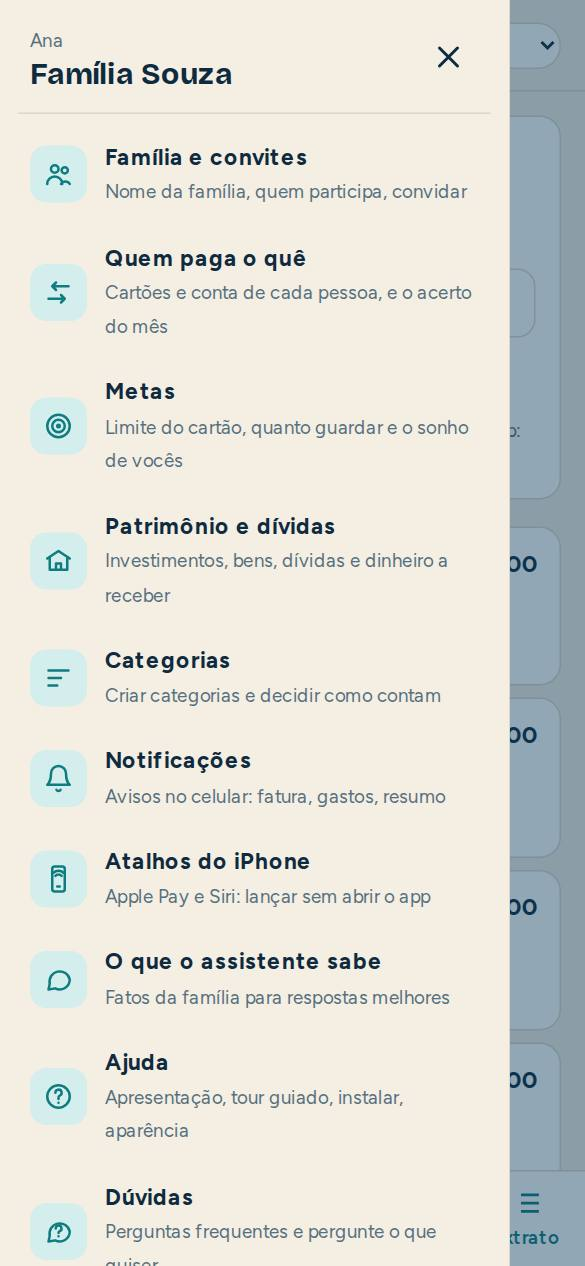
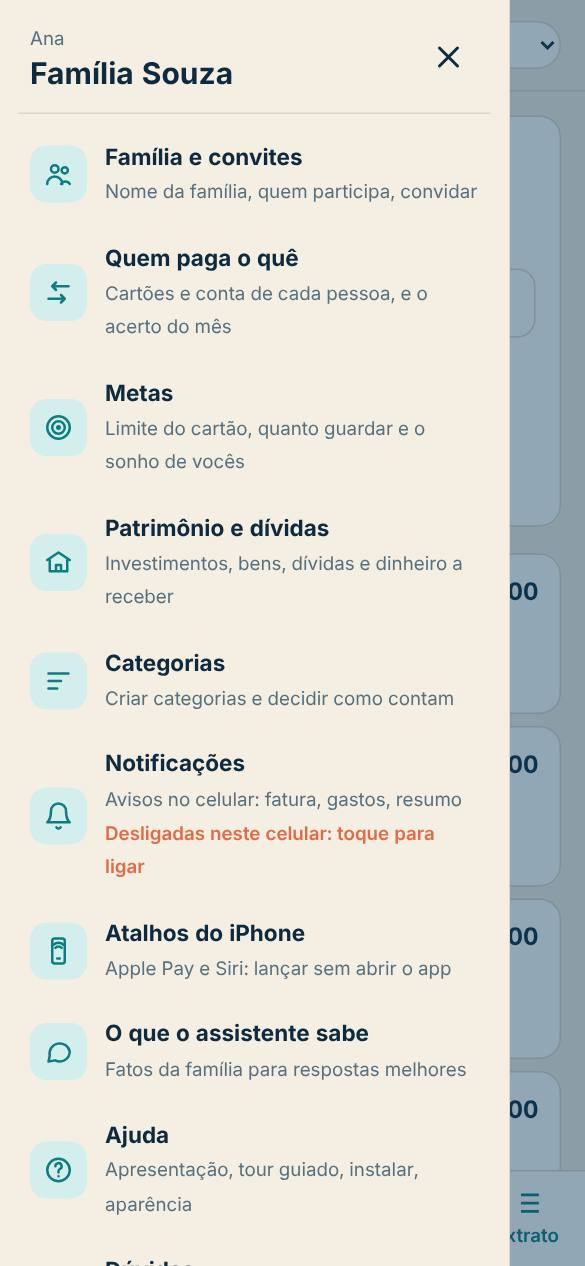
v61: tell people when notifications are off and take them to turn them on
Claude-Session: https://claude.ai/code/session_01HTxyDPPEQrF1SknoQ9axHM

diff --git a/public/js/admin/content.js b/public/js/admin/content.js
@@ -9,7 +9,7 @@ export const FEATURE_LABELS = {
   'perguntar.enviar': 'Pergunta ao assistente', 'fechar.mes': 'Fechou um mês', 'graficos.salvar': 'Salvou gráfico', privacidade: 'Modo privacidade',
   'opiniao.erro': 'Mandou erro', 'opiniao.ideia': 'Mandou ideia', 'opiniao.critica': 'Mandou crítica', 'duvida.ler': 'Leu uma dúvida', 'duvida.perguntar': 'Perguntou nas Dúvidas',
   'menu.familia': 'Menu: Família', 'menu.divisao': 'Menu: Quem paga o quê', 'menu.metas': 'Menu: Metas', 'menu.patrimonio': 'Menu: Patrimônio', 'menu.categorias': 'Menu: Categorias',
-  'menu.avisos': 'Menu: Notificações', 'menu.contexto': 'Menu: O que o assistente sabe', 'menu.ajuda': 'Menu: Ajuda', 'menu.duvidas': 'Menu: Dúvidas', 'menu.opiniao': 'Menu: Dar opinião',
+  'menu.avisos': 'Menu: Notificações', 'avisos.convite_sim': 'Aceitou ligar as notificações (pop-up)', 'avisos.convite_nao': 'Disse "agora não" às notificações (pop-up)', 'avisos.ligou': 'Ligou as notificações neste celular', 'menu.contexto': 'Menu: O que o assistente sabe', 'menu.ajuda': 'Menu: Ajuda', 'menu.duvidas': 'Menu: Dúvidas', 'menu.opiniao': 'Menu: Dar opinião',
   'menu.applepay': 'Menu: Atalhos do iPhone', 'conta.zerar': 'Zerou os lançamentos da família', 'extrato.anotacao': 'Anotou um lançamento', 'exemplo.fatura': 'Do mês de exemplo, foi enviar a fatura', 'exemplo.falar': 'Do mês de exemplo, foi lançar falando', 'seguranca.biometria': 'Ligou a digital ou o rosto', 'seguranca.desbloqueio_bio': 'Desbloqueou com a digital ou o rosto', 'seguranca.desbloqueio_senha': 'Desbloqueou com a senha', 'seguranca.tempo': 'Mudou o tempo do bloqueio', 'seguranca.bloquear': 'Bloqueou o app na mão', 'applepay.codigo': 'Gerou código do atalho do iPhone', 'lancar.comprovante': 'Leu comprovante compartilhado', 'atalho.voz': 'Abriu pelo atalho Falar', 'atalho.nota': 'Abriu pelo atalho Nota', 'atalho.pdf': 'Abriu pelo atalho PDF', 'atalho.compartilhar': 'Compartilhou algo com o app', sininho: 'Abriu o sininho', 'menu.backup': 'Menu: Backup', 'menu.sobre': 'Menu: Sobre', 'menu.metricas': 'Menu: Métricas', 'menu.conta': 'Menu: Conta',
 };
 export const AREA_LABELS = { extrato: 'Extrato', conta: 'Conta', exemplo: 'Mês de exemplo', seguranca: 'Segurança', atalho: 'Atalhos', applepay: 'Atalhos do iPhone', aba: 'Abas', lancar: 'Lançar', perguntar: 'Perguntar', fechar: 'Fechar o mês', graficos: 'Gráficos', privacidade: 'Privacidade', opiniao: 'Opinião', duvida: 'Dúvidas', menu: 'Menu' };
@@ -31,7 +31,8 @@ export const SERVICES = [
   sv('subs', 'Assinaturas e aumentos', 'Acha cobranças repetidas e avisa quando o preço sobe', 'Início → Mais detalhes', 'no_ar', 'gratis', 'nao', '—', []),
   sv('split', 'Quem paga o quê', 'Quanto cada um pagou e o acerto do mês', 'Menu → Quem paga o quê', 'no_ar', 'gratis', 'nao', '—', ['menu.divisao']),
   sv('fam', 'Família e convites', 'Convite pelo WhatsApp; todos veem os mesmos números', 'Menu → Família', 'no_ar', 'gratis', 'nao', 'Supabase Auth', ['menu.familia']),
-  sv('push', 'Notificações', 'Um aviso por dia no máximo e resumo de domingo; avisos da família', 'Menu → Notificações', 'no_ar', 'gratis', 'nao', 'Web Push; Vercel Cron', ['menu.avisos']),
+  sv('push', 'Notificações', 'Um aviso por dia no máximo e resumo de domingo; avisos da família', 'Menu → Notificações', 'no_ar', 'gratis', 'nao', 'Web Push; Vercel Cron', ['menu.avisos', 'avisos.ligou']),
+  sv('push_convite', 'Convite para ligar as notificações', 'Se as notificações estão desligadas ou bloqueadas no celular, o app avisa (a cada 3 dias, até 4 vezes) e leva para Notificações; o menu mostra "Desligadas"', 'Pop-up ao abrir o app; menu ☰', 'no_ar', 'gratis', 'nao', 'Estado do Web Push no próprio aparelho', ['avisos.convite_sim', 'avisos.convite_nao']),
   sv('priv', 'Modo privacidade', 'Esconde todos os valores', 'Olho no topo', 'no_ar', 'gratis', 'nao', '—', ['privacidade']),
   sv('pat', 'Patrimônio e dívidas', 'Investimentos, bens, financiamentos e projeção do sonho', 'Menu → Patrimônio', 'no_ar', 'gratis', 'nao', '—', ['menu.patrimonio']),
   sv('backup', 'Backup', 'Baixar e importar todos os dados', 'Menu → Backup', 'no_ar', 'gratis', 'nao', '—', ['menu.backup']),

diff --git a/public/js/views/ajustes.js b/public/js/views/ajustes.js
@@ -427,6 +427,8 @@ async function save(patch, msg) {
 const lsSet = (k, v) => { try { localStorage.setItem(k, v); } catch (e) { /* storage blocked */ } };
 async function renderPush(box) {
   const st = await pushStatus().catch(() => 'unsupported');
+  S.pushStatus = st;
+  const focus = S.pushFocus; S.pushFocus = false;
   const msg = {
     'need-install': `<p class="small">No iPhone, os avisos só funcionam com o app instalado na tela de início. Instale e abra pelo ícone; depois volte aqui.</p><details class="help" open><summary>Como instalar</summary>${installHelpHTML()}</details>`,
     'no-sw': '<p class="small">O app ainda está terminando de instalar neste aparelho. Feche e abra de novo, e volte aqui.</p>',
@@ -434,7 +436,7 @@ async function renderPush(box) {
     'not-configured': '<p class="small">Os avisos ainda não foram ligados no servidor do app. Assim que forem, esta página libera o botão.</p>',
     denied: `<p class="small">Os avisos estão bloqueados para este app no celular. Para liberar:</p><ol class="small">${isIOS() ? '<li>Abra os Ajustes do iPhone → Notificações.</li><li>Toque em Pra Onde Foi e ligue Permitir Notificações.</li>' : '<li>No Chrome, toque no ícone ao lado do endereço (ou segure o ícone do app → Informações do app).</li><li>Toque em Notificações e escolha Permitir.</li>'}<li>Volte aqui e toque em Ativar avisos.</li></ol>`,
   }[st];
-  if (msg) { box.innerHTML = msg; wireInstall(box); return; }
+  if (msg) { box.innerHTML = msg; wireInstall(box); if (focus) box.classList.add('pulse'); return; }
   const prefs = await currentPrefs().catch(() => ({ dados: true, gastos: true, conquistas: true, semanal: true }));
   box.innerHTML = `${st === 'on' ? '<p class="status ok">Avisos ligados neste celular.</p>' : ''}
     <fieldset class="pushtypes"><legend class="small muted">Quero ser avisado sobre</legend>
@@ -447,11 +449,12 @@ async function renderPush(box) {
     if (!Object.values(read()).some(Boolean)) { i.checked = true; say('err', 'Deixe pelo menos um tipo de aviso ligado, ou toque em Desligar avisos.'); return; }
     if (st === 'on') { try { await savePrefs(read()); say('ok', 'Preferências salvas.'); } catch (e) { say('err', 'Não foi possível salvar. Verifique a internet.'); } }
   });
+  if (st !== 'on' && focus) setTimeout(() => { const b = $('#pOn'); if (!b) return; b.scrollIntoView({ behavior: 'smooth', block: 'center' }); b.classList.add('pulse'); b.focus({ preventScroll: true }); }, 80);
   if (st !== 'on') $('#pOn').onclick = async () => {
     say('busy', 'O celular vai pedir permissão. Toque em Permitir.');
     try {
       const r = await enablePush(read());
-      if (r === 'on') { lsSet('fin.push.on', '1'); toast('Avisos ligados'); renderPush(box); setTimeout(() => sendTest().catch(() => {}), 400); }
+      if (r === 'on') { lsSet('fin.push.on', '1'); S.pushStatus = 'on'; track('avisos.ligou'); toast('Avisos ligados'); renderPush(box); setTimeout(() => sendTest().catch(() => {}), 400); }
       else if (r === 'denied') renderPush(box);
       else say('err', 'Você não permitiu os avisos. Quando quiser, toque em Ativar de novo.');
     } catch (e) { say('err', 'Não foi possível ligar os avisos. ' + db.errorText(e)); }
@@ -460,7 +463,7 @@ async function renderPush(box) {
     $('#pTest').onclick = async () => { say('busy', 'Enviando...'); try { await sendTest(); say('ok', 'Aviso enviado. Ele chega em alguns segundos.'); } catch (e) { say('err', 'Não foi possível enviar o teste agora.'); } };
     $('#pOff').onclick = async e => {
       if (!await confirmInline(e.target, { text: 'Desligar os avisos neste celular? Dá para ligar de novo quando quiser.', yes: 'Sim, desligar', danger: true })) return;
-      await disablePush(); lsSet('fin.push.on', '0'); toast('Avisos desligados'); renderPush(box);
+      await disablePush(); lsSet('fin.push.on', '0'); S.pushStatus = 'off'; toast('Avisos desligados'); renderPush(box);
     };
   }
 }

diff --git a/public/js/admin/flows.js b/public/js/admin/flows.js
@@ -34,6 +34,7 @@ export const SCREENS = {
   menu_patrimonio: { title: 'Patrimônio e dívidas', where: 'Menu ☰', key: 'menu.patrimonio' },
   menu_categorias: { title: 'Categorias', where: 'Menu ☰', key: 'menu.categorias' },
   menu_avisos: { title: 'Notificações', where: 'Menu ☰', key: 'menu.avisos' },
+  convite_avisos: { title: 'Notificações desligadas', where: 'Ao abrir o app, se as notificações estão desligadas (a cada 3 dias, até 4 vezes)', key: 'avisos.convite_sim' },
   menu_applepay: { title: 'Atalhos do iPhone', where: 'Menu ☰', key: 'menu.applepay' },
   menu_contexto: { title: 'O que o assistente sabe', where: 'Menu ☰', key: 'menu.contexto' },
   lancar_comprovante: { title: 'Comprovante compartilhado', where: 'Compartilhar → Pra Onde Foi (Android; no iPhone, pelo atalho 3)', key: 'lancar.comprovante' },
@@ -63,7 +64,7 @@ export const FLOWS = [
     { title: 'Menu ☰', screens: ['menu', 'menu_familia', 'menu_divisao', 'menu_metas', 'menu_patrimonio', 'menu_categorias', 'menu_avisos', 'menu_applepay', 'menu_contexto', 'menu_duvidas', 'menu_opiniao', 'menu_ajuda', 'menu_backup', 'menu_sobre', 'menu_conta'] },
     { title: 'Lançar sem abrir o app', screens: ['menu_applepay', 'lancar_comprovante'] },
     { title: 'Opinião e dúvidas', screens: ['opiniao_confirmar', 'opiniao_enviada', 'duvidas_resposta'] },
-    { title: 'Mensagens ao abrir', screens: ['alpha', 'recado', 'novidades', 'sininho'] },
+    { title: 'Mensagens ao abrir', screens: ['alpha', 'recado', 'novidades', 'convite_avisos', 'sininho'] },
     { title: 'Segurança', screens: ['biometria', 'menu_conta', 'bloqueio', 'saiu'] },
   ] },
   { id: 'primeiro', title: 'Primeiro acesso', desc: 'Do link até ver o Início pela primeira vez.', steps: [
@@ -85,6 +86,8 @@ export const FLOWS = [
     st('menu', 'Abre o menu'), st('menu_applepay', 'Gera o código e monta os atalhos no app Atalhos', 'applepay.codigo'), st('lancar_comprovante', 'Android: compartilha o comprovante, a fatura ou a nota do banco; o app vê o que é e leva para o lugar certo', 'atalho.compartilhar')] },
   { id: 'seguranca', title: 'Segurança: bloqueio e biometria', desc: 'O app não fica aberto com os números da família à vista.', steps: [
     st('menu_conta', 'Escolhe o tempo do bloqueio e liga a digital ou o rosto', 'seguranca.biometria'), st('bloqueio', 'Depois do tempo sem uso, o app cobre a tela'), st('inicio', 'Desbloqueia com a digital, o rosto ou a senha', null), st('saiu', 'Ao sair da conta, a mensagem de segurança')] },
+  { id: 'notificacoes', title: 'Ligar as notificações', desc: 'Sem notificação, a pessoa não fica sabendo das novidades nem das respostas. O app não liga sozinho: avisa e leva até lá.', steps: [
+    st('convite_avisos', 'Ao abrir o app, o aviso de que estão desligadas', 'avisos.convite_sim'), st('menu_avisos', 'Toca em Ativar avisos neste celular e em Permitir', 'avisos.ligou')] },
   { id: 'perguntar', title: 'Perguntar ao assistente', desc: 'Perguntas sobre os números da família.', steps: [
     st('perguntar', 'Escolhe uma sugestão ou escreve'), st('perguntar_resposta', 'Resposta com os números da família')] },
   { id: 'opiniao', title: 'Dar opinião e receber o recado', desc: 'O ciclo com quem testa: manda, a equipe faz, a pessoa é avisada.', steps: [

diff --git a/public/js/push.js b/public/js/push.js
@@ -1,6 +1,9 @@
 // Push notifications on this device: permission, subscription and the kinds of notice the person wants.
 import * as db from './db.js';
 import { S } from './state.js';
+import { announce } from './ui.js';
+import { track } from './usage.js';
+import { shouldAskPush, pushAskText } from './lib/pushask.js';
 
 export const PUSH_TYPES = [
   { key: 'dados', label: 'Falta de dados', hint: 'Quando faltar o extrato ou a fatura, ou o mês estiver acabando sem lançamentos.' },
@@ -70,4 +73,28 @@ export async function notifyFamily(type, extra = {}) {
     const { data } = await db.sb.auth.getSession();
     await fetch('/api/notify', { method: 'POST', headers: { 'content-type': 'application/json', authorization: 'Bearer ' + (data?.session?.access_token || '') }, body: JSON.stringify({ household: S.hh.id, type, ...extra }) });
   } catch (e) { /* best effort */ }
+}
+
+// What the menu and the steps on Início show: the real state of this device, checked at each opening.
+const ls = (k, v) => { try { if (v === undefined) return localStorage.getItem(k); localStorage.setItem(k, v); } catch (e) { return null; } return null; };
+export async function refreshPushState() {
+  S.pushStatus = await pushStatus().catch(() => 'unsupported');
+  if (S.pushStatus === 'on') ls('fin.push.on', '1'); else if (S.pushStatus === 'off' || S.pushStatus === 'denied') ls('fin.push.on', '0');
+  return S.pushStatus;
+}
+
+// Notifications off: say so and take the person to the page that turns them on (the phone only asks
+// after a tap there). Every 3 days, up to 4 times per device. Returns true when the pop-up was shown.
+const ASK = () => 'fin.pushask.' + (S.user?.id || '');
+export async function offerPush() {
+  if (window.__noMsgs || document.body.classList.contains('locked') || !S.user) return false;
+  const status = await refreshPushState();
+  let asks = {}; try { asks = JSON.parse(ls(ASK()) || '{}'); } catch (e) { asks = {}; }
+  if (!shouldAskPush({ status, asks, now: Date.now() })) return false;
+  ls(ASK(), JSON.stringify({ n: (+asks.n || 0) + 1, at: Date.now() }));
+  const t = pushAskText(status, S.user.user_metadata?.display_name || '');
+  const r = await announce({ eyebrow: 'Notificações', title: t.title, html: `<ul>${t.items.map(i => `<li>${i}</li>`).join('')}</ul>`, primary: t.primary, secondary: t.secondary });
+  track(r === 'primary' ? 'avisos.convite_sim' : 'avisos.convite_nao');
+  if (r === 'primary') { S.pushFocus = true; S.go('ajustes', '#pushBox', 'avisos'); }
+  return true;
 }

diff --git a/public/js/lib/releases.js b/public/js/lib/releases.js
@@ -121,4 +121,11 @@ export const RELEASES = [
   { id: 'r60', version: 'v60', at: '2026-11-03T13:40:00Z', backlog: ['push_de_teste_na_central'], semNovidade: 'Central do produto: página "Avisos no celular" com os seus aparelhos, quem recebe push e um botão de push de teste. Só o dono do produto vê.', addBacklog: [
     { id: 'push_de_teste_na_central', title: 'Push de teste e lista de quem recebe avisos na Central', status: 'feito', origin: 'Luiz', effort: 'P', problem: 'Não dava para saber se o push estava ligado nem testar sem esperar uma versão nova', cost: false, notes: 'Central → Acompanhar → Avisos no celular: seus aparelhos com notificação ligada, quem recebe e botão "Enviar push de teste para mim". Aparelhos que não existem mais saem da lista no teste.', from: [], where: 'Central → Avisos no celular' },
   ] },
+  { id: 'r61', version: 'v61', at: '2026-11-03T14:30:00Z', backlog: ['avisar_notificacao_desligada'], news: { id: 'n20261103e', title: 'Fique sabendo do que importa', items: [
+    'Se as notificações estiverem desligadas no seu celular, o app agora avisa e leva direto para ligar. É só tocar em Ativar e depois em Permitir.',
+    'Com elas ligadas, chegam as novidades do app, a resposta quando o que você pediu ficar pronto e os avisos de fatura e gastos.',
+    'No menu ☰, Notificações mostra se estão desligadas neste celular.',
+  ] }, addBacklog: [
+    { id: 'avisar_notificacao_desligada', title: 'Avisar quando as notificações estão desligadas e levar para ligar', status: 'feito', origin: 'Luiz', effort: 'P', problem: 'Ninguém procura ligar as notificações sozinho; sem elas, a pessoa não fica sabendo das novidades nem das respostas', cost: false, notes: 'Não força: o celular só pede permissão depois de um toque. O app avisa (pop-up com o nome, a cada 3 dias, até 4 vezes por celular, só quando não há outro pop-up), leva para menu ☰ → Notificações com o botão em destaque, e o menu mostra "Desligadas neste celular". Bloqueadas nos ajustes: mostra como liberar.', from: [], where: 'Ao abrir o app; menu ☰ → Notificações' },
+  ] },
 ];

diff --git a/public/js/lib/pushask.js b/public/js/lib/pushask.js
@@ -1,0 +1,30 @@
+// Notifications off on this device: the app does not turn them on by itself (the phone asks the person),
+// but it says so and takes the person to menu ☰ → Notificações. Pure module, tested in tests/lib.test.mjs.
+
+export const ASK_MAX = 4;          // times the pop-up appears on this device
+export const ASK_GAP_DAYS = 3;     // days between two of them
+
+// status: from pushStatus() — 'on' | 'off' | 'denied' | 'need-install' | 'unsupported' | 'not-configured' | 'no-sw'.
+// Only 'off' (never turned on, or turned off) and 'denied' (blocked in the phone settings) are worth a word:
+// on an iPhone in Safari the install invitation comes first; elsewhere there is nothing the person can do.
+export const pushIsOff = status => status === 'off' || status === 'denied';
+export function shouldAskPush({ status, asks = {}, now }) {
+  const n = +asks.n || 0, at = +asks.at || 0;
+  return pushIsOff(status) && n < ASK_MAX && (!at || now - at >= ASK_GAP_DAYS * 864e5);
+}
+
+// Pop-up text, with the person's name.
+export function pushAskText(status, name = '') {
+  const first = String(name || '').trim().split(/\s+/)[0];
+  const who = first ? first + ', as' : 'As';
+  const items = [
+    'Novidades do app e a resposta quando o que você pediu ficar pronto.',
+    'Fatura fechando, mês acabando sem dados e gasto acima do normal.',
+    'No máximo um aviso por dia, e você escolhe quais quer.',
+  ];
+  if (status === 'denied') return { title: `${who} notificações estão bloqueadas neste celular`, items: [...items, 'Na próxima tela, o passo a passo para liberar nos ajustes do celular.'], primary: 'Ver como liberar', secondary: 'Agora não' };
+  return { title: `${who} notificações estão desligadas neste celular`, items: [...items, 'Na próxima tela é só tocar em Ativar e depois em Permitir. Dá para desligar quando quiser.'], primary: 'Ligar agora', secondary: 'Agora não' };
+}
+
+// The line under "Notificações" in menu ☰.
+export const menuNote = status => status === 'denied' ? 'Bloqueadas neste celular' : status === 'off' ? 'Desligadas neste celular' : '';

diff --git a/public/js/main.js b/public/js/main.js
@@ -22,6 +22,7 @@ import { showMessages, openBell, refreshBell } from './messages.js';
 import { photo } from './photos.js';
 import { askInstall, shouldAskInstall, isIOS, isAndroid, isMobile, isStandalone, markNotInstalled, checkStillInstalled } from './install.js';
 import { captureInviteFromUrl, pendingInvite, inviteInfo, startOnboarding, displayName } from './onboarding.js';
+import { offerPush, refreshPushState } from './push.js';
 import { initLock, freshSignIn, signOutSafely, showBye, offerBio } from './lock.js';
 
 const VIEWS = { resumo, lancar, graficos, perguntar, extrato, ajustes, fechar };
@@ -38,8 +39,9 @@ function showSignedOut() {
 }
 // After entering the app in the browser: one more invitation to install (iPhone keeps a separate login).
 // Messages for testers (welcome, replies, what's new) come first; then the invitation to install.
-// Nothing else to say this time: offer the fingerprint/face (once a week, up to 3 times); then the install invitation.
-const afterIntro = () => showMessages().then(shown => shown ? null : offerBio()).then(() => setTimeout(maybeAskInstall, 600));
+// Nothing else to say this time: notifications off? Otherwise offer the fingerprint/face (once a week, up to 3 times); then the install invitation.
+// Then, if notifications are off on this phone, say so (every few days); else the fingerprint/face.
+const afterIntro = () => { refreshPushState(); return showMessages().then(shown => shown ? null : offerPush().then(p => p ? null : offerBio())).then(() => setTimeout(maybeAskInstall, 600)); };
 const maybeAskInstall = () => { if (shouldAskInstall()) askInstall({ note: isIOS() ? 'Depois de instalar, abra pelo ícone e entre com o mesmo e-mail e senha.' : '' }); };
 $('#wHero').innerHTML = photo('lost', { w: 1100, ratio: '3 / 2', fallback: 'hero', cls: 'land-photo' });
 // Always available on the phone: the automatic invitation only comes back after a few days.

diff --git a/public/js/menu.js b/public/js/menu.js
@@ -2,6 +2,7 @@
 import { S } from './state.js';
 import { $ } from './ui.js';
 import { esc } from './lib/format.js';
+import { menuNote } from './lib/pushask.js';
 
 const I = p => `<svg viewBox="0 0 24 24" fill="none" stroke="currentColor" stroke-width="2" stroke-linecap="round" stroke-linejoin="round" aria-hidden="true">${p}</svg>`;
 export const SECTIONS = [
@@ -36,7 +37,7 @@ export function openMenu() {
   dr.innerHTML = `<div class="drawer-h"><div><div class="tiny muted">${esc(me)}</div><div class="drawer-fam">${esc(S.hh?.name || 'Pra Onde Foi')}</div></div>
       <button class="iconbtn" type="button" id="drawerX" aria-label="Fechar menu">${I('<path d="M6 6l12 12M18 6L6 18"/>')}</button></div>
     <ul class="drawer-list">${SECTIONS.filter(s => !s.admin || S.isAdmin).map(s => `<li><button type="button" data-sec="${s.key}" ${S.tab === 'ajustes' && S.sec === s.key ? 'aria-current="page"' : ''}>
-      <span class="di">${s.icon}</span><span><strong>${s.title}</strong><br><span class="tiny muted">${s.desc}</span></span></button></li>`).join('')}</ul>
+      <span class="di">${s.icon}</span><span><strong>${s.title}</strong><br><span class="tiny muted">${s.desc}</span>${s.key === 'avisos' && menuNote(S.pushStatus) ? `<br><span class="tiny dnote">${menuNote(S.pushStatus)}: toque para ligar</span>` : ''}</span></button></li>`).join('')}</ul>
     <p class="tiny muted drawer-foot">Pra Onde Foi · versão de teste</p>`;
   lastFocus = document.activeElement;
   dr.hidden = bg.hidden = false; document.body.style.overflow = 'hidden';

diff --git a/public/sw.js b/public/sw.js
@@ -1,6 +1,6 @@
 // Service worker: caches the app shell so it opens fast and installs as an app.
 // Data and /api calls always go to the network.
-const VERSION = 'v60';
+const VERSION = 'v61';
 const SHELL = ['/', '/index.html', '/css/app.css', '/js/main.js', '/js/db.js', '/js/ai.js', '/js/ui.js', '/js/state.js', '/js/speech.js', '/js/tour.js', '/js/steps.js', '/js/onboarding.js', '/js/art.js', '/js/install.js', '/js/push.js', '/js/metrics.js', '/js/privacy.js', '/js/lib/recurring.js', '/js/lib/settle.js', '/js/photos.js', '/js/menu.js', '/js/coach.js', '/js/views/graficos.js', '/js/views/fechar.js', '/js/lib/closing.js', '/js/lib/charts.js', '/js/lib/receipt.js', '/js/lib/insights.js', '/js/lib/budget.js', '/js/lib/pricing.js', '/js/lib/faq.js', '/js/feedback.js', '/js/usage.js', '/js/lib/navlog.js', '/js/applepay.js', '/js/lib/quick.js', '/js/lib/feed.js', '/js/messages.js', '/js/lib/news.js',
   '/js/lib/format.js', '/js/lib/calc.js', '/js/lib/categorize.js', '/js/lib/parse.js', '/js/lib/validate.js',
   '/js/views/resumo.js', '/js/views/lancar.js', '/js/views/perguntar.js', '/js/views/extrato.js', '/js/views/ajustes.js',

diff --git a/public/js/usage.js b/public/js/usage.js
@@ -5,7 +5,7 @@ import * as db from './db.js';
 import { S } from './state.js';
 import { tapCell, tapLabel, cleanError } from './lib/navlog.js';
 
-export const APP_VERSION = 'v60';
+export const APP_VERSION = 'v61';
 const OK = /^[a-z_]{2,20}(\.[a-z_]{2,20})?$/;
 export const device = () => { const u = navigator.userAgent; return (/iphone|ipad/i.test(u) ? 'iPhone' : /android/i.test(u) ? 'Android' : /mac/i.test(u) ? 'Mac' : /windows/i.test(u) ? 'Windows' : 'Outro') + (window.matchMedia?.('(display-mode: standalone)').matches || navigator.standalone ? ' · app instalado' : ' · navegador'); };
 export const screenOf = () => S.tab === 'ajustes' ? 'menu.' + (S.sec || 'familia') : S.tab === 'resumo' ? 'inicio' : (S.tab || '');

diff --git a/public/css/app.css b/public/css/app.css
@@ -528,3 +528,7 @@ label.consent[hidden]{display:none}
 .chip.notechip{font-size:12px;padding:4px 10px}
 .nt-rem{display:flex;gap:8px;align-items:center;margin-top:10px}
 .nt-rem input{width:20px;height:20px;accent-color:var(--accent)}
+/* Came from the "notificações desligadas" pop-up: the button to tap glows for a moment. */
+.btn.pulse,#pushBox.pulse{animation:glow 1.4s ease-out 3}
+@keyframes glow{0%{box-shadow:0 0 0 0 color-mix(in srgb,var(--accent) 55%,transparent)}100%{box-shadow:0 0 0 14px transparent}}
+.dnote{color:var(--coral);font-weight:600}
